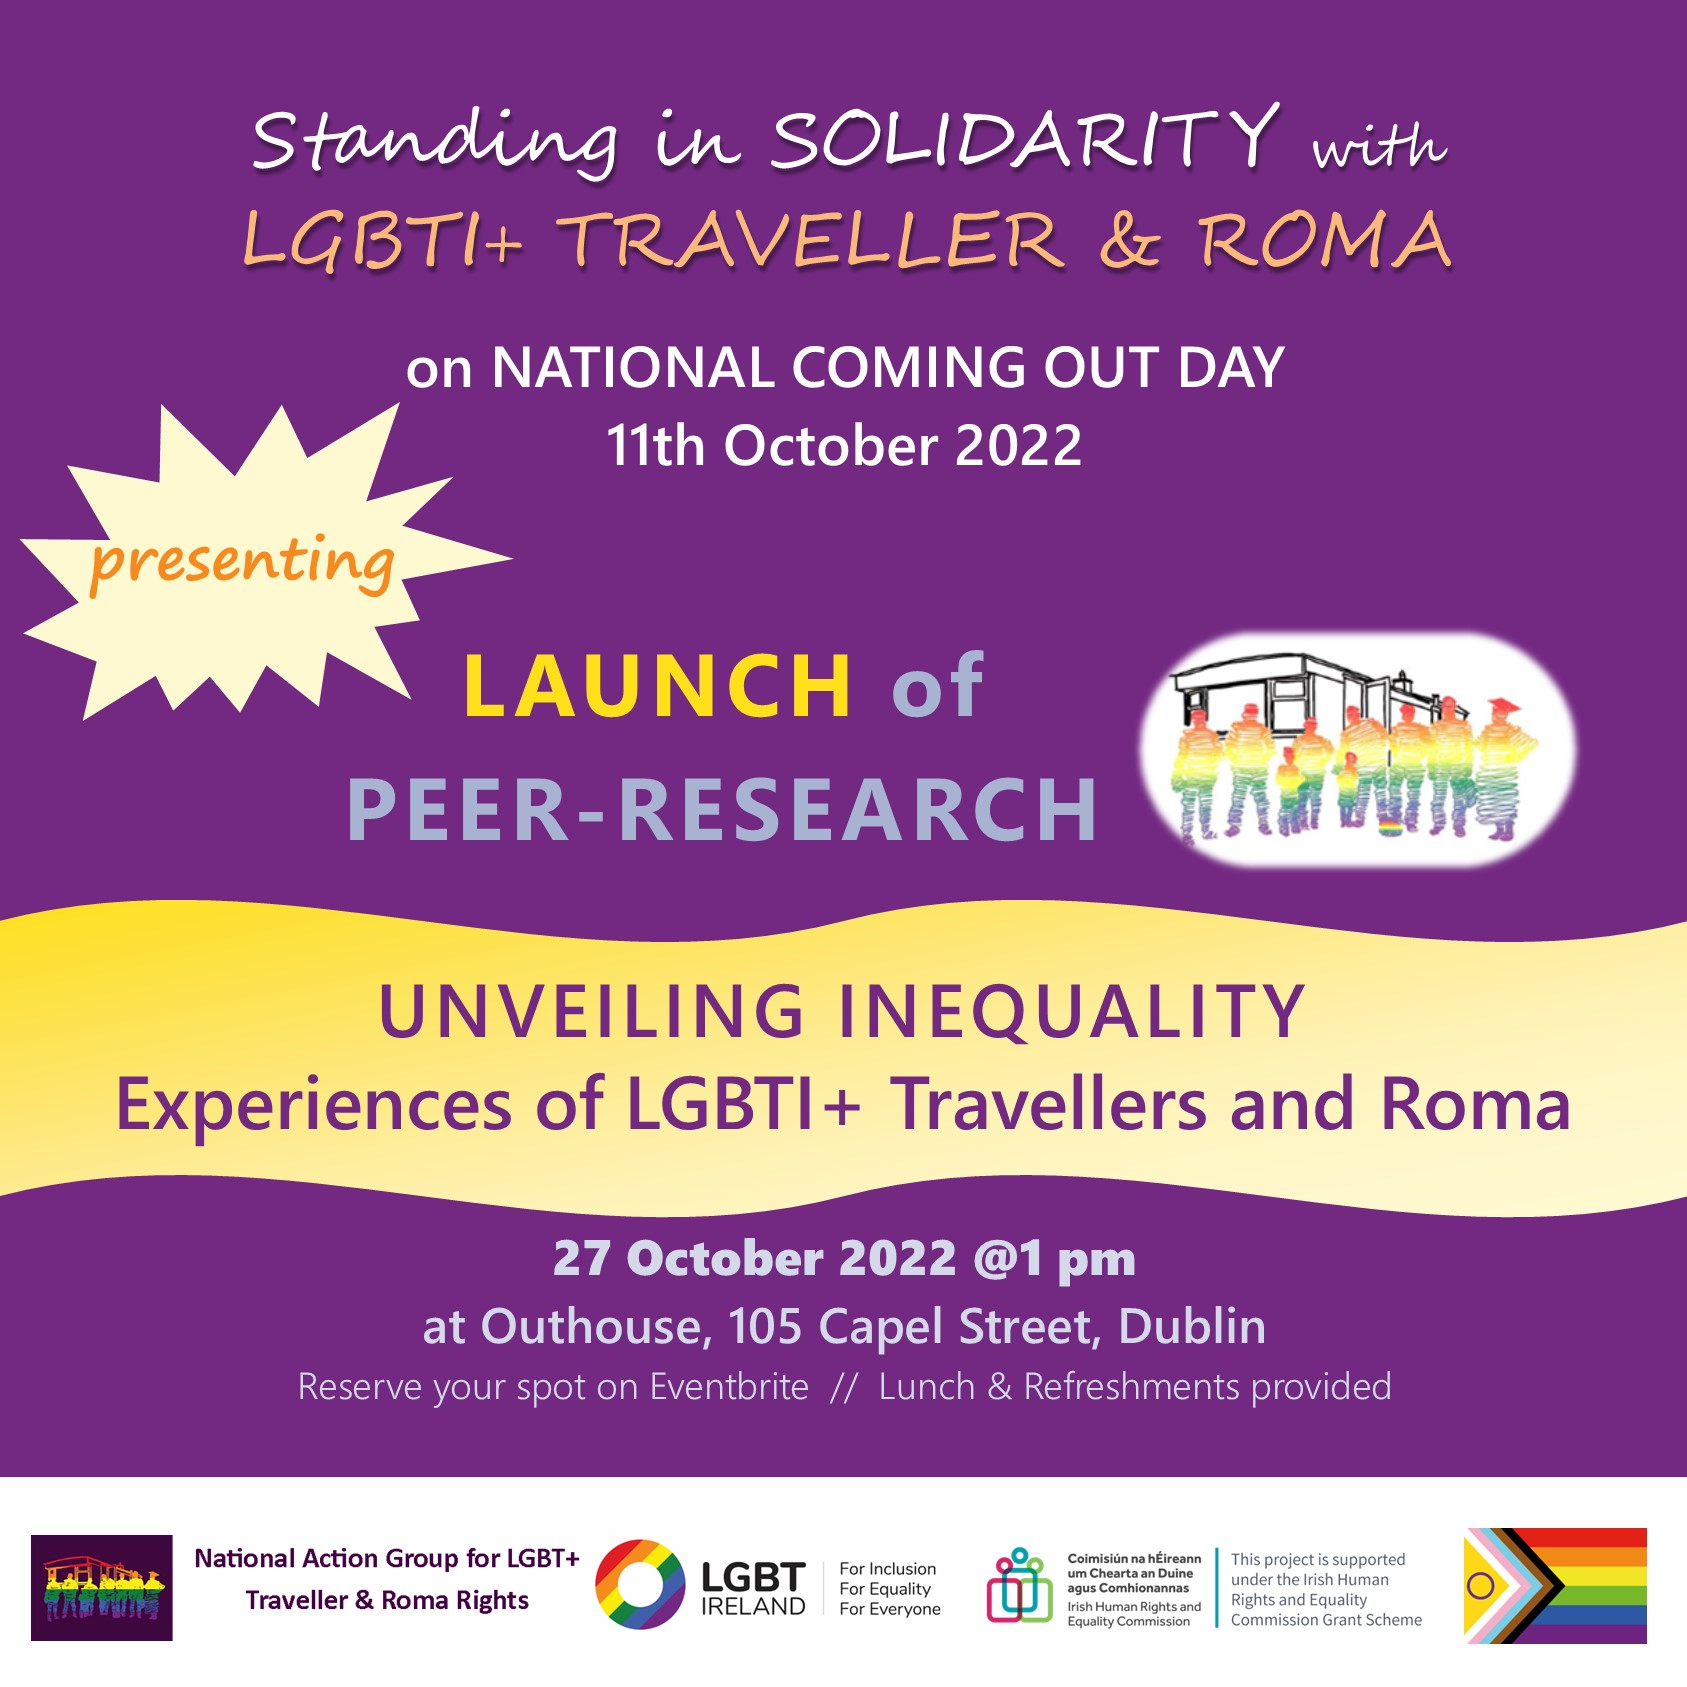
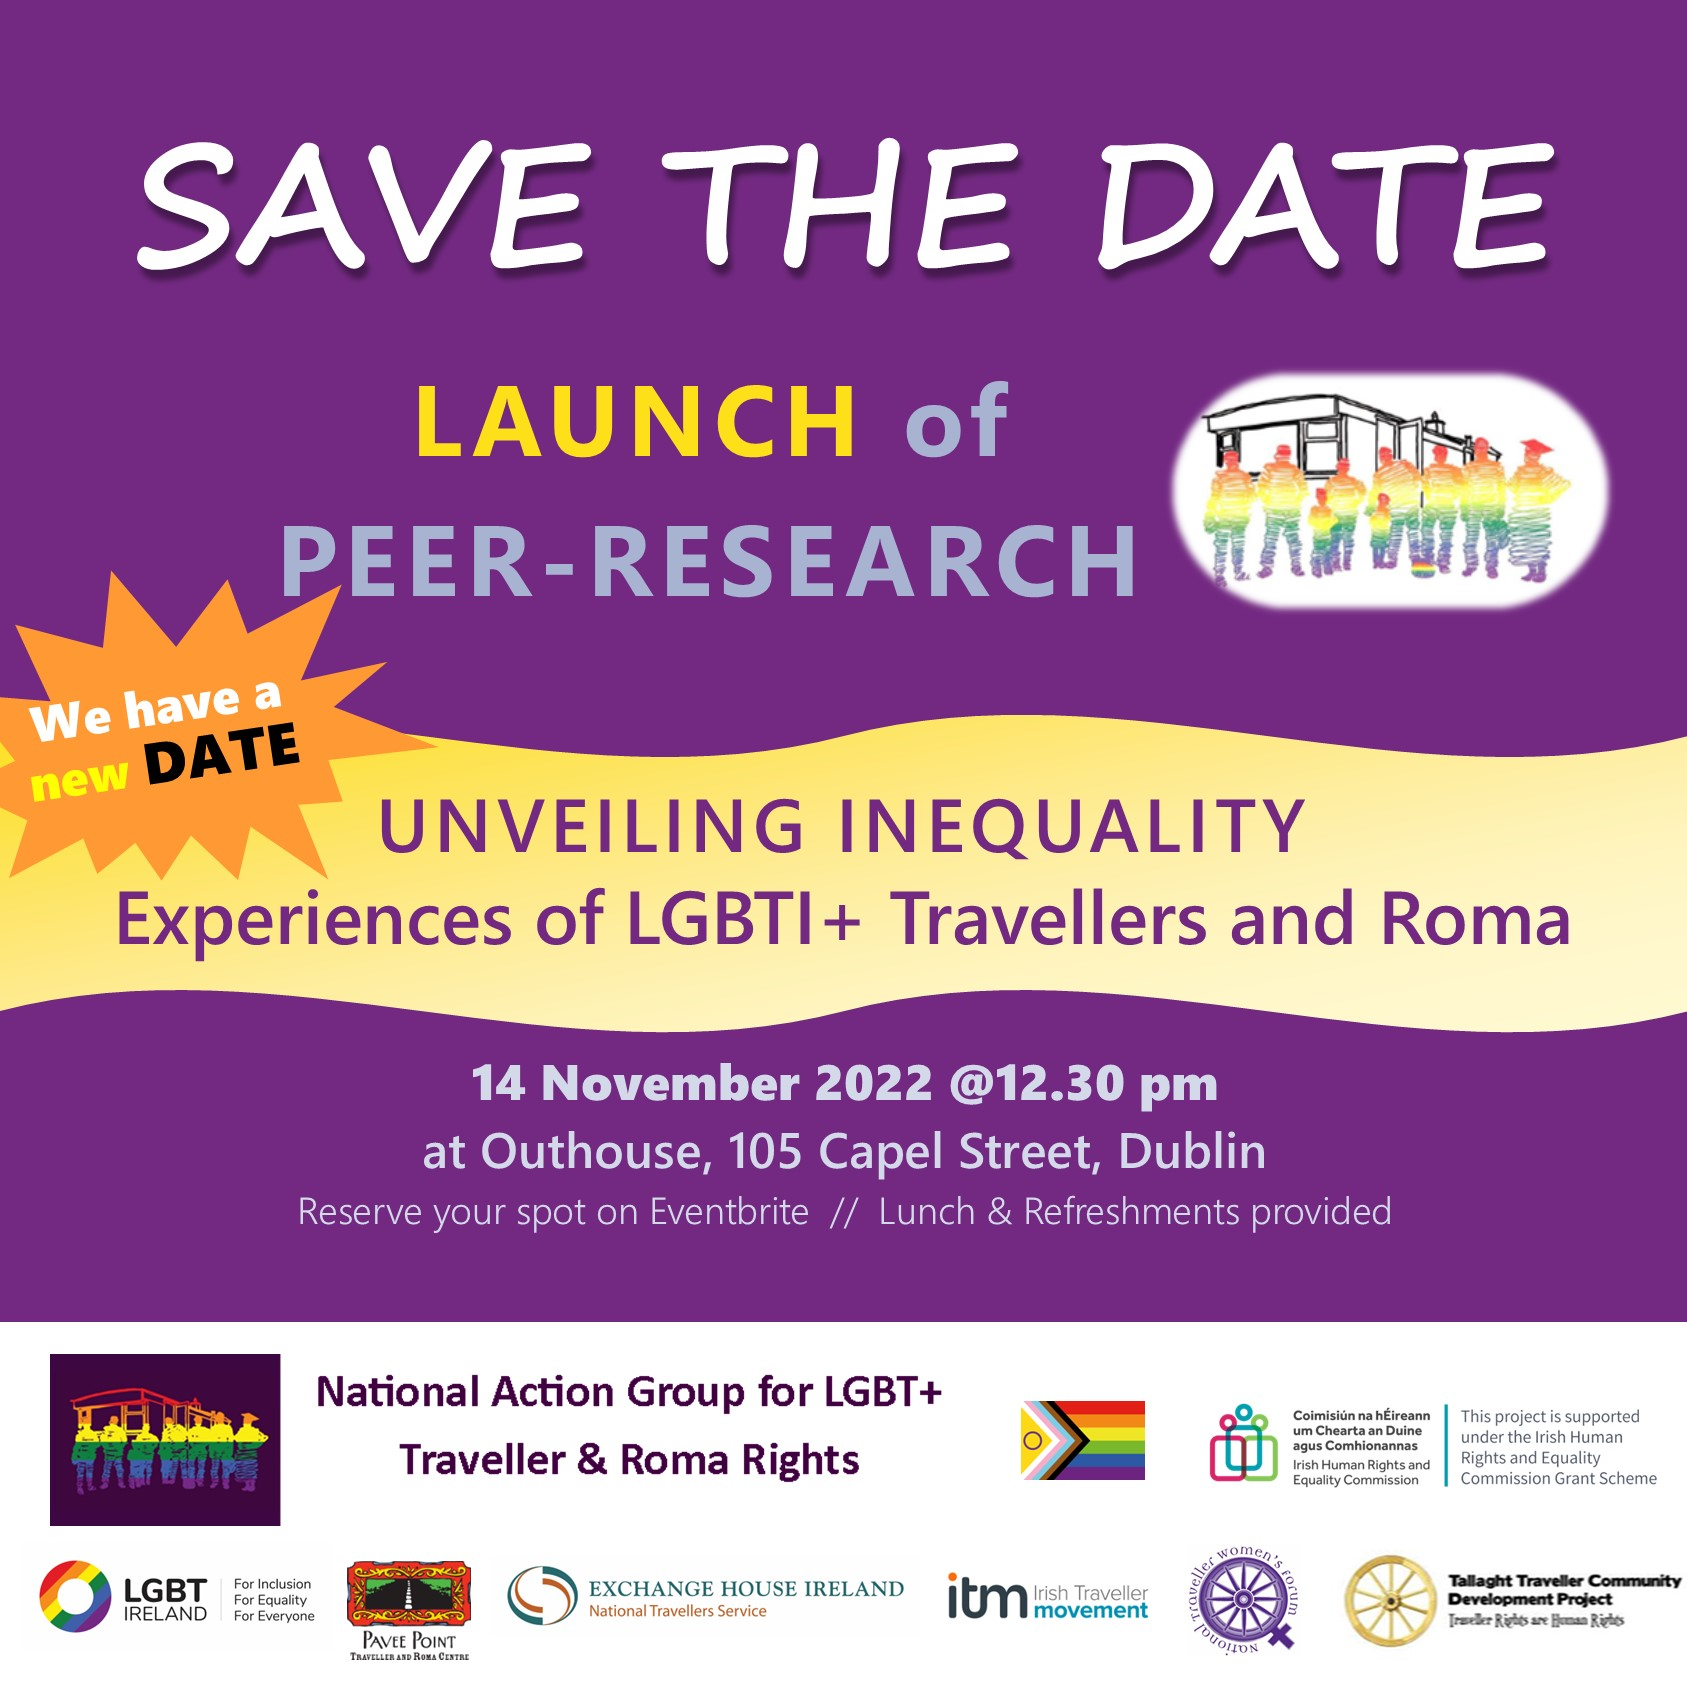
Update content

diff --git a/content/what-we-do/index.md b/content/what-we-do/index.md
@@ -35,25 +35,25 @@ We also engage in Prides nationwide as much as we can:
 
 ## Research
 
-In 2021, we commissioned a peer-research ‘Unveiling Inequality – The Experiences of LGBTI+ Traveller and Roma’  with the goal of advancing greater awareness and understanding of Lesbian, Gay, Bi-sexual, Transgender, Intersex and queer (LGBTI+) Traveller and Roma and supporting their inclusion in organisations and in their communities. 
+In 2021, we commissioned a peer-research ‘Unveiling Inequality – The Experiences of LGBTI+ Traveller and Roma’  with the goal of advancing greater awareness and understanding of Lesbian, Gay, Bi-sexual, Transgender, Intersex and Queer (LGBTI+) Traveller & Roma and supporting their inclusion in organisations and services and in their communities. 
 
 The study is gratefully supported by LGBT Ireland and the Irish Human Rights and Equality Commission (IHREC).
 
-[Learn more](/what-we-do/research) - Experiences of LGBTI+ Travellers and Roma. 
+[Learn more](/what-we-do/research) 
 
 ## How to get involved
 
 ##### You are a Lesbian, Gay, Bisexual, Transsexual, Intersex or Queer Traveller or Roma?
 
-And want to get involved, please [write to us or give us a call](/contact)! THere are many options of getting involved! You can also stay completely **anonymous**, if you want to! *Please inform us about your wish to stay anonymous right at the start.* 
+And want to get involved, please [write to us or give us a call](/contact)! There are many options of getting involved! You can also stay completely **anonymous**, if you want to! *Please inform us about your wish to stay anonymous right at the start.* 
 
-You can become a member of the National Action Group for LGBTI+ Traveller and Roma, even if you want to stay anonymous! We send you info emails regularly. 
+You can become a **member** of the National Action Group for LGBTI+ Traveller and Roma Rights, even if you want to stay anonymous! We send you info emails regularly. 
 
-You want to become an activist or a member of the Steering committee LGBTI+ Travellers and Roma, [let's talk](/contact)!
+You want to become an activist or a member of the **Steering Committee**? [let's talk](/contact)!
 
 ##### You are a Traveller or Roma individual or an organisation working with Travellers, Roma or LGBTI+ people?
 
-Want to become a member? [Write to us](mailto:ponke.danker@exchangehouse.ie)
+Want to become a **member**? [Write to us](mailto:ponke.danker@exchangehouse.ie)
 
 ##### You are an individual supporting our cause?
 

diff --git a/content/about/index.md b/content/about/index.md
@@ -14,25 +14,25 @@ The National Action Group for LGBTI+ Traveller & Roma Rights is a colletive that
 
 ## What is *intersectionality*
 
-We inform and promote awareness for the intersectional experience of LGBTI+ Traveller & Roma. *Intersectionality* refers to the fact that multiple affiliation with marginalised groups lead to an experience of overlapping and reinforcing discrimination and prejudice. 
+We inform about and promote awareness for the intersectional experience of LGBTI+ Traveller & Roma. *Intersectionality* refers to the fact that multiple affiliation with marginalised groups lead to an experience of overlapping and reinforcing discrimination and prejudice. 
 
 For example, an LGBTI+ Traveller or Roma may encounter racism by the LGBTI+ community & may encounter exclusion and prejudice by the Traveller or Roma community for being LGBTI+ & be discrimintaed against by the wider society for both simultaneously.
 
 ## Governance & Membership
 
-The **Steering Committee** consists of representatives from the LGBTI+ Traveller & Roma community, from national, regional and local Traveller & Roma organisations and services and LGBTI+ organisations and services.
+The **Steering Committee** consists of representatives from the LGBTI+ Traveller & Roma community, the Traveller & Roma communities, national, regional and local Traveller & Roma organisations and services and LGBTI+ organisations and services.
 
-**Membership** consists of 
+The **Membership** consists of 
 - LGBTI+ Traveller & Roma individuals
-- Traveller individuals
+- Traveller & Roma individuals
 - Politicians
-- Traveller organisations and services
+- Traveller & Roma organisations and services
 - LGBTI+ organisations and services
 - Other Human Rights related organisations and services.
 
 If you are interested in becoming a member, please [write us an email](mailto:ponke.danker@exchangehouse.ie).
 
-If you are an individual not affiliated with the LGBTI+ Traveller & Roma community, the Traveller community or an organisation, but you want to support us: **Become an Ally** and [find out more](/what-we-do).
+If you are an individual not affiliated with the LGBTI+ Traveller & Roma community, the Traveller or Roma communities or an organisation, but you want to support us: **Become an Ally** and [find out more](/what-we-do).
 
 ## Meet our Key Worker
 

diff --git a/content/home.md b/content/home.md
@@ -4,7 +4,7 @@
 
 <img src="title-image.jpg" width=800/>
 
-[Find out more](/about)
+[What We Do](/what-we-do)
 
 ## About us
 
@@ -14,20 +14,20 @@ The National Action Group for LGBTI+ Traveller & Roma Rights is a collective tha
 
 ## News & Events
 
-#### Peer-Research Launch in November
+#### Peer-Research Launch on 14th November
 <img src="research-launch-ad.jpg" width=300/>
 
 We're proud to present the launch of the Peer-Research "Unveiling Inequality - Experiences of LGBTI+ Travellers and Roma". 
 
-#### Galway Pride 2022 with GTM
+#### Galway Pride with GTM
 <img src="galway-pride.jpg" width=300/>
 
-The National Action Group for LGBTI+ Traveller & Roma Rights proudly walked with Galway Traveller Movement in Galway's Pride Parade in August 2022. 
+In August, we proudly walked with Galway Traveller Movement in Galway's Pride Parade.
 
-#### Dublin Pride in June 2022
+#### Dublin Pride June 2022
 <img src="dublin-pride.jpg" width=300/>
 
-At the most anticipated event of the Pride Season, LGBTI+ Traveller and Roma were at the front of the parade celebrating diversity and community. 
+At the most anticipated event of the Pride Season, LGBTI+ Traveller & Roma were at the front of the parade celebrating diversity and community. 
 
 [See all news](/news)
 

diff --git a/content/news/index.md b/content/news/index.md
@@ -6,17 +6,17 @@ title = "News"
 
 # News
 
-#### Peer-Research Launch in November
+#### Peer-Research Launch on 14th November
 <img src="research-launch-ad.jpg" width=300/>
 
 We're proud to present the launch of the Peer-Research "Unveiling Inequality - Experiences of LGBTI+ Travellers and Roma". 
 
-#### Galway Pride 2022 with GTM
+#### Galway Pride with GTM
 <img src="galway-pride.jpg" width=300/>
 
-The National Action Group for LGBTI+ Traveller & Roma Rights proudly walked with Galway Traveller Movement in Galway's Pride Parade in August 2022. 
+In August, we proudly walked with Galway Traveller Movement in Galway's Pride Parade. 
 
-#### Dublin Pride in June 2022
+#### Dublin Pride June 2022
 <img src="dublin-pride.jpg" width=300/>
 
-At the most anticipated event of the Pride Season, LGBTI+ Traveller and Roma were at the front of the parade celebrating diversity and community. 
+At the most anticipated event of the Pride Season, LGBTI+ Traveller & Roma were at the front of the parade celebrating diversity and community. 
